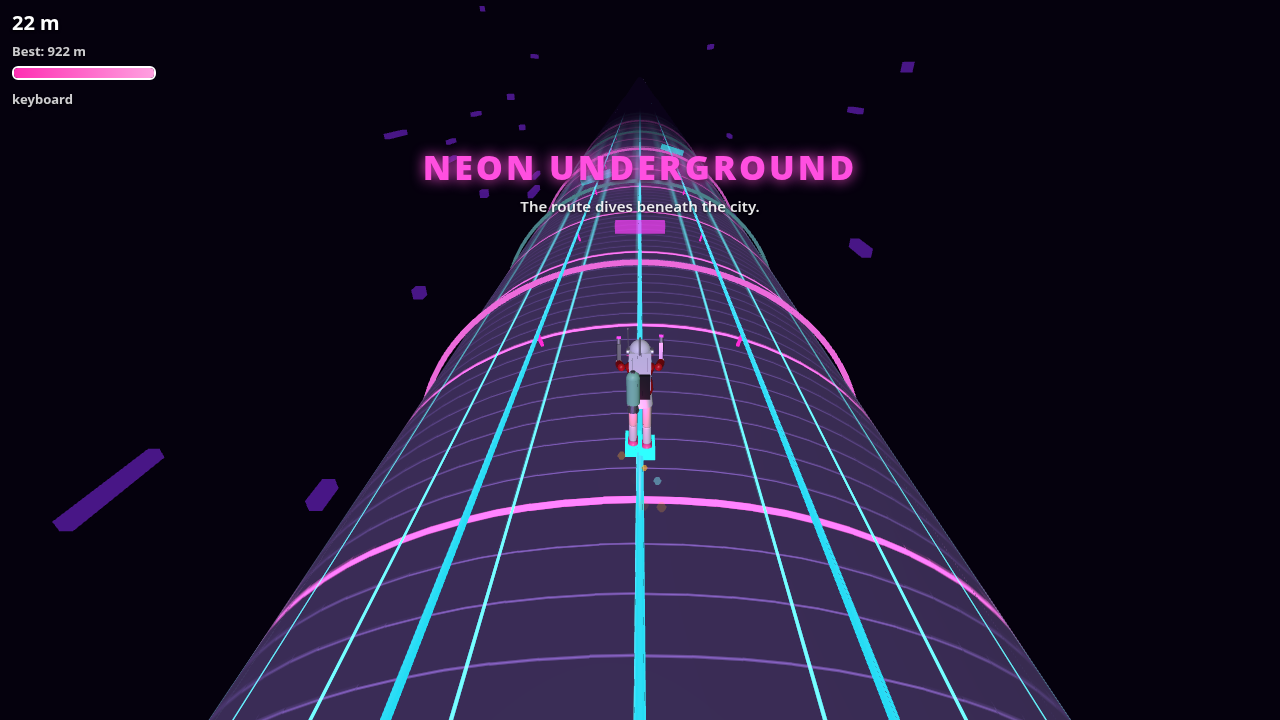
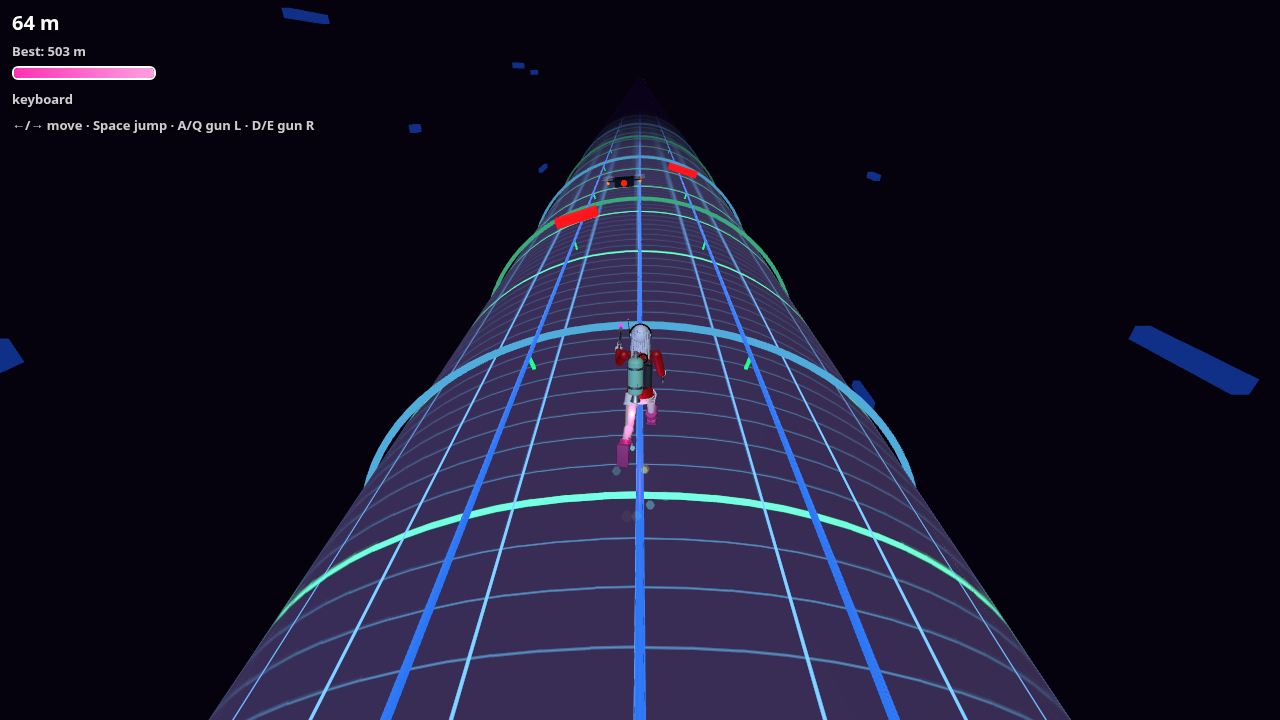
+20% speed, red-on-blue/green Neon Underground, split touch zones with twin guns, hostile drones

diff --git a/index.html b/index.html
@@ -14,19 +14,19 @@ canvas{display:block;touch-action:none}
 #over h1{margin:0 0 8px}#over button{font-size:22px;padding:12px 30px;border:0;border-radius:10px;background:#ff4f8b;color:#fff;margin-top:14px}
 #touch{position:fixed;inset:0;display:none;pointer-events:none;z-index:5}
 .zone{position:absolute;bottom:0;height:50%;width:35%;border:2px dashed rgba(255,255,255,.12);box-sizing:border-box;display:flex;align-items:flex-end;justify-content:center;padding-bottom:30px;color:rgba(255,255,255,.4);font-size:34px}
-#zl{left:0}#zr{right:0}
+#zl{left:0}#zr{right:0}.gz{top:0;bottom:auto;align-items:flex-start;padding-top:150px;color:rgba(255,80,220,.6);font-size:17px;font-weight:800;border-color:rgba(255,80,220,.25)}#zgl{left:0}#zgr{right:0}#tip{position:absolute;left:50%;top:38%;transform:translateX(-50%);color:rgba(255,255,255,.45);font:600 13px system-ui;text-align:center}
 #jb{position:absolute;left:50%;bottom:40px;transform:translateX(-50%);width:90px;height:90px;border-radius:50%;background:rgba(255,79,139,.45);color:#fff;display:flex;align-items:center;justify-content:center;font-weight:700}
 </style>
 <script type="importmap">{"imports":{"three":"https://cdn.jsdelivr.net/npm/three@0.160.0/build/three.module.js","three/addons/":"https://cdn.jsdelivr.net/npm/three@0.160.0/examples/jsm/"}}</script>
 </head><body>
-<div id="hud"><div id="score">0 m</div><small id="best">Best: 0 m</small><br><div id="fuelwrap"><div id="fuel"></div></div><small id="mode">keyboard</small></div>
-<div id="touch"><div class="zone" id="zl">◀</div><div class="zone" id="zr">▶</div><div id="jb">JUMP</div></div>
+<div id="hud"><div id="score">0 m</div><small id="best">Best: 0 m</small><br><div id="fuelwrap"><div id="fuel"></div></div><small id="mode">keyboard</small><br><small id="khint">←/→ move · Space jump · A/Q gun L · D/E gun R</small></div>
+<div id="touch"><div class="zone gz" id="zgl">🔫 L GUN</div><div class="zone gz" id="zgr">R GUN 🔫</div><div class="zone" id="zl">◀ MOVE</div><div class="zone" id="zr">MOVE ▶</div><div id="tip">center = jump<br>(hold = jetpack)</div><div id="jb">JUMP</div></div>
 <div id="flash" style="position:fixed;inset:0;background:#ffb070;opacity:0;pointer-events:none;z-index:8"></div><div id="warn" style="position:fixed;top:12px;right:12px;color:#ff5040;font-weight:800;text-shadow:0 0 6px #f00;display:none;z-index:6">☄ METEOR</div>
-<div id="banner" style="position:fixed;left:0;right:0;top:20%;text-align:center;color:#fff;pointer-events:none;z-index:7;opacity:0;transition:opacity .6s"><div id="bt" style="font:900 34px system-ui;letter-spacing:3px;text-shadow:0 0 14px currentColor,0 2px 4px #000"></div><div id="bs" style="font:600 15px system-ui;opacity:.9;margin-top:6px;text-shadow:0 1px 3px #000;color:#fff"></div></div><div id="inv" style="position:fixed;top:44%;left:0;right:0;text-align:center;font:900 30px system-ui;color:#39ff88;text-shadow:0 0 10px #0f8,0 2px 3px #000;display:none;pointer-events:none;z-index:7">⇄ INVERTED</div>
+<div id="banner" style="position:fixed;left:0;right:0;top:20%;text-align:center;color:#fff;pointer-events:none;z-index:7;opacity:0;transition:opacity .6s"><div id="bt" style="font:900 34px system-ui;letter-spacing:3px;text-shadow:0 0 14px currentColor,0 2px 4px #000"></div><div id="bs" style="font:600 15px system-ui;opacity:.9;margin-top:6px;text-shadow:0 1px 3px #000;color:#fff"></div></div><div id="inv" style="position:fixed;top:44%;left:0;right:0;text-align:center;font:900 30px system-ui;color:#39ff88;text-shadow:0 0 10px #0f8,0 2px 3px #000;display:none;pointer-events:none;z-index:7">⇄ INVERTED</div><div id="pop" style="position:fixed;top:30%;left:0;right:0;text-align:center;font:900 28px system-ui;color:#ff60e0;text-shadow:0 0 10px #f0c,0 2px 3px #000;opacity:0;pointer-events:none;z-index:7;transition:opacity .4s"></div>
 <div id="over"><h1>Game Over</h1><div id="final"></div><button id="restart">Restart</button><small style="margin-top:8px;opacity:.7">Space / tap to restart</small></div>
 <script type="module">
 import * as THREE from 'three';
-const R=14, BASE=18.72, RAMP=0.5, RAMP_T=10, CAP=200, TURN_RATE=18/R /* ~74deg/s, 18 m/s surface (was 16) */, HOP_H=1.6, THRUST=36, VY_MAX=7.5, FUEL_TIME=1.6, FUEL_REFILL=0.7, MAX_ALT=9, JUMP_H=HOP_H, G=18,
+const R=14, BASE=22.464, RAMP=0.5, RAMP_T=10, CAP=200, TURN_RATE=18/R /* ~74deg/s, 18 m/s surface (was 16) */, HOP_H=1.6, THRUST=36, VY_MAX=7.5, FUEL_TIME=1.6, FUEL_REFILL=0.7, MAX_ALT=9, JUMP_H=HOP_H, G=18,
   V0=Math.sqrt(2*G*JUMP_H), COYOTE=0.12, BUFFER=0.1, CAM_D=10.5, CAM_H=8.5, CAM_FOLLOW=4.5;
 const renderer=new THREE.WebGLRenderer({antialias:true});
 renderer.setPixelRatio(Math.min(devicePixelRatio,2));renderer.setSize(innerWidth,innerHeight);
@@ -111,27 +111,28 @@ const obsGeo=new THREE.BoxGeometry(3,0.9,0.6), obsMat=new THREE.MeshStandardMate
 const OBS_HALF={t:1.5,r:0.45,a:0.3};
 const meteors=[],craters=[],gaps=[];let pad=null;let st,camTheta0=true;const obstacles=[];
 const best=()=>+(localStorage.getItem('vicRouteBest')||0);
-function reset(){for(const o of obstacles)scene.remove(o.mesh);obstacles.length=0;if(typeof clearMeteors==='function')clearMeteors();if(typeof clearGaps==='function')clearGaps();
+function reset(){for(const o of obstacles)scene.remove(o.mesh);obstacles.length=0;if(typeof clearMeteors==='function')clearMeteors();if(typeof clearGaps==='function')clearGaps();if(window.__combatReady)clearDrones();
  st={theta:0,y:0,vy:0,grounded:true,lastGround:0,bufferT:-1,speed:BASE,t:0,dist:0,spawnIn:1.5,over:false,frames:0,impacts:0,meteorIn:0,killedBy:null,spawnLo:1.8,spawnHi:3.2,difficulty:0,gapIn:8,side:'out',prevS:R,zone:'tube',entered:0,exited:0,inDur:0,inT0:0,electricCrossed:0,gapsCrossed:0,boost:0,boosted:false,padAy:-50,padDone:false,te:0,spins:0,jumps:0,fuel:1,thrusting:false,jumpT:0,maxY:0,camTheta:0,lean:0,realm:'normal',realmT:0,portalIn:14,invertT:0,invertDur:0,invertStart:0,visits:{},returns:0,lastReturn:null,lastRealmDur:0,missAt:-1,exitSpawned:false,exitT:0,pL:false,pR:false,flat:false,lx:0,morph:0,morphDir:0,rails:false,rail:1,railBase:0,hopT:-1,hopArc:0,hopFrom:0,railSwitches:0,strobe:false,strobeT:0,strobeIn:25,strobeDark:false,strobeFlips:0,strobeHold:null,strobes:0};camTheta0=true;if(window.__rr){clearPortals();strobeVis(false);railsOff();setMorph(0);flatW.visible=false;applyTheme('normal');}
  document.getElementById('over').style.display='none';if(pad){pad.visible=true;placePad();}}
 reset();
-const keys={left:false,right:false,jump:false};const touchHold={left:false,right:false,jump:false};const tapPend={left:0,right:0};
+const keys={left:false,right:false,jump:false,gunL:false,gunR:false};const touchHold={left:false,right:false,jump:false,gunL:false,gunR:false};const tapPend={left:0,right:0,gunL:0,gunR:0};
 function requestJump(){if(st.over){reset();return;}st.bufferT=st.t;}
 addEventListener('keydown',e=>{setMode('keyboard');
  if(e.code==='ArrowLeft'){keys.left=true;e.preventDefault();}
  if(e.code==='ArrowRight'){keys.right=true;e.preventDefault();}
- if(e.code==='Space'){e.preventDefault();keys.jump=true;if(!e.repeat)requestJump();}});
-addEventListener('keyup',e=>{if(e.code==='ArrowLeft')keys.left=false;if(e.code==='ArrowRight')keys.right=false;if(e.code==='Space')keys.jump=false;});
+ if(e.code==='Space'){e.preventDefault();keys.jump=true;if(!e.repeat)requestJump();}
+ if(['KeyA','KeyQ','KeyZ'].includes(e.code)){keys.gunL=true;if(!e.repeat)tapPend.gunL=1;}if(['KeyD','KeyE','KeyX'].includes(e.code)){keys.gunR=true;if(!e.repeat)tapPend.gunR=1;}});
+addEventListener('keyup',e=>{if(e.code==='ArrowLeft')keys.left=false;if(e.code==='ArrowRight')keys.right=false;if(e.code==='Space')keys.jump=false;if(['KeyA','KeyQ','KeyZ'].includes(e.code))keys.gunL=false;if(['KeyD','KeyE','KeyX'].includes(e.code))keys.gunR=false;});
 let mode='keyboard';
 function setMode(m){if(m===mode)return;mode=m;document.getElementById('mode').textContent=m;
- document.getElementById('touch').style.display=m==='touch'?'block':'none';}
+ document.getElementById('touch').style.display=m==='touch'?'block':'none';document.getElementById('khint').style.display=m==='touch'?'none':'';}
 if(matchMedia('(pointer:coarse)').matches||'ontouchstart' in window&&navigator.maxTouchPoints>0)setMode('touch');
 const active=new Map();
-function zoneOf(x,y){if(y<innerHeight/2)return 'jump';const w=innerWidth;
+function zoneOf(x,y){const w=innerWidth;if(y<innerHeight/2){if(x<w*0.35)return 'gunL';if(x>w*0.65)return 'gunR';return 'jump';}
  const jb=document.getElementById('jb').getBoundingClientRect();
  if(x>=jb.left&&x<=jb.right&&y>=jb.top&&y<=jb.bottom)return 'jump';
  if(x<w*0.35)return 'left';if(x>w*0.65)return 'right';return 'jump';}
-function syncHold(){touchHold.left=[...active.values()].includes('left');touchHold.right=[...active.values()].includes('right');touchHold.jump=[...active.values()].includes('jump');}
+function syncHold(){touchHold.left=[...active.values()].includes('left');touchHold.right=[...active.values()].includes('right');touchHold.jump=[...active.values()].includes('jump');touchHold.gunL=[...active.values()].includes('gunL');touchHold.gunR=[...active.values()].includes('gunR');}
 const cvs=renderer.domElement;
 function onTS(e){if(e.target.id==='restart')return;e.preventDefault();setMode('touch');
  for(const t of e.changedTouches){const z=zoneOf(t.clientX,t.clientY);active.set(t.identifier,z);if(z==='jump'||st.over)requestJump();else tapPend[z]=1;}syncHold();}
@@ -142,7 +143,7 @@ document.addEventListener('touchmove',e=>e.preventDefault(),{passive:false});
 document.addEventListener('gesturestart',e=>e.preventDefault());
 document.getElementById('restart').addEventListener('click',()=>reset());
 addEventListener('resize',()=>{camera.aspect=innerWidth/innerHeight;camera.updateProjectionMatrix();renderer.setSize(innerWidth,innerHeight);});
-function spawn(th,ay){const car=st.realm==='freeway';const m=car?makeCar():st.realm==='neon'?new THREE.Mesh(obsGeo,holoMats[Math.random()*2|0]):new THREE.Mesh(obsGeo,obsMat);const o={mesh:m,kind:car?'car':'barrier',theta:th??Math.random()*Math.PI*2,ay:ay??SPAWN_AY(),h:st.rails?RAIL_H:0};if(!car)m.add(new THREE.LineSegments(obsEdges,outlineMat));if(st.flat){o.v=8+Math.random()*6;if(ay==null)o.ay=SPAWN_AY()*(1+o.v/st.speed);o.lx=th==null?LANES[Math.random()*4|0]:Math.max(-FLAT_X,Math.min(FLAT_X,th*R));o.theta=0;}
+function spawn(th,ay){const car=st.realm==='freeway';const m=car?makeCar():st.realm==='neon'?new THREE.Mesh(obsGeo,redObsMat):new THREE.Mesh(obsGeo,obsMat);const o={mesh:m,kind:car?'car':'barrier',theta:th??Math.random()*Math.PI*2,ay:ay??SPAWN_AY(),h:st.rails?RAIL_H:0};if(!car)m.add(new THREE.LineSegments(obsEdges,outlineMat));if(st.flat){o.v=8+Math.random()*6;if(ay==null)o.ay=SPAWN_AY()*(1+o.v/st.speed);o.lx=th==null?LANES[Math.random()*4|0]:Math.max(-FLAT_X,Math.min(FLAT_X,th*R));o.theta=0;}
  scene.add(m);obstacles.push(o);placeObs(o);return st.flat?o.lx/R:o.theta;}
 function placeObs(o){if(o.lx!==undefined){o.mesh.position.set(o.lx,o.ay,R);o.mesh.rotation.set(0,0,Math.PI);return;}const r=(o.kind==='car'?R:R+OBS_HALF.r)+(o.h||0);o.mesh.position.set(Math.sin(o.theta)*r,o.ay,Math.cos(o.theta)*r);o.mesh.rotation.set(0,o.theta,0);}
 function angDiff(a,b){let d=a-b;d=Math.atan2(Math.sin(d),Math.cos(d));return d;}
@@ -151,7 +152,7 @@ function collide(o){if(o.kind==='car'){return (o.lx!==undefined?Math.abs(o.lx-st
  const arc=Math.abs(angDiff(o.theta,st.theta))*R; const ax=Math.abs(o.ay-0);
  return arc<VIC_HALF.x+OBS_HALF.t && ax<VIC_HALF.z+OBS_HALF.a && st.y<OBS_HALF.r*2;}
 function gameOver(by){st.over=true;st.killedBy=by||'barrier';const m=Math.floor(st.dist);if(m>best())localStorage.setItem('vicRouteBest',m);
- document.getElementById('final').textContent=`${st.killedBy==='barrier'?'':st.killedBy==='gap'?'Fell into the gap! ':st.killedBy==='electric'?'Electrocuted! ':st.killedBy==='car'?'Hit by a car! ':'Knocked out by a '+st.killedBy+'! '}${m} m — Best ${best()} m`;document.getElementById('over').style.display='flex';}
+ document.getElementById('final').textContent=`${st.killedBy==='barrier'?'':st.killedBy==='gap'?'Fell into the gap! ':st.killedBy==='electric'?'Electrocuted! ':st.killedBy==='car'?'Hit by a car! ':st.killedBy==='drone'?'Taken out by a drone! ':'Knocked out by a '+st.killedBy+'! '}${m} m — Best ${best()} m`;document.getElementById('over').style.display='flex';}
 
 // ---------- Boost pad ----------
 const surf=(th,h,ay,v=new THREE.Vector3())=>v.set(Math.sin(th)*(R+h),ay,Math.cos(th)*(R+h));
@@ -271,7 +272,7 @@ function clearMeteors(){for(const m of meteors){scene.remove(m.ring);scene.remov
 // ---------- Portals & realms (story chapters) ----------
 const mkTex=f=>{const c=document.createElement('canvas');c.width=c.height=256;const x=c.getContext('2d');f(x);const t=new THREE.CanvasTexture(c);t.wrapS=t.wrapT=THREE.RepeatWrapping;t.repeat.set(14,300);return t;};
 const sunTex=mkTex(x=>{x.fillStyle='#d9a441';x.fillRect(0,0,256,256);x.fillStyle='#f7d27a';x.fillRect(0,0,256,26);x.fillStyle='#ffe7a8';for(let i=0;i<4;i++)x.fillRect(i*64,0,3,256);});
-const neonTex=mkTex(x=>{x.fillStyle='#07040f';x.fillRect(0,0,256,256);x.fillStyle='#ff2bd6';x.fillRect(0,0,256,6);x.fillStyle='#22e6ff';x.fillRect(0,0,4,256);x.fillRect(128,0,3,256);x.fillStyle='rgba(120,60,255,.35)';for(let i=1;i<8;i++)x.fillRect(0,i*32,256,1);});
+const neonTex=mkTex(x=>{x.fillStyle='#07040f';x.fillRect(0,0,256,256);x.fillStyle='#22ff88';x.fillRect(0,0,256,6);x.fillStyle='#2a7bff';x.fillRect(0,0,4,256);x.fillRect(128,0,3,256);x.fillStyle='rgba(40,140,255,.35)';for(let i=1;i<8;i++)x.fillRect(0,i*32,256,1);});
 const fwTex=mkTex(x=>{x.fillStyle='#2b2b30';x.fillRect(0,0,256,256);for(let i=0;i<900;i++){x.fillStyle=`rgba(255,255,255,${Math.random()*.08})`;x.fillRect(Math.random()*256,Math.random()*256,2,2);}x.fillStyle='#f2f2f2';x.fillRect(0,0,6,256);x.fillStyle='#ffd23a';x.fillRect(126,0,5,120);});
 const fwBg=(()=>{const c=document.createElement('canvas');c.width=2;c.height=256;const x=c.getContext('2d');const g=x.createLinearGradient(0,0,0,256);g.addColorStop(0,'#2a1050');g.addColorStop(.45,'#c2386e');g.addColorStop(.75,'#ff8a4a');g.addColorStop(1,'#ffd27a');x.fillStyle=g;x.fillRect(0,0,2,256);return new THREE.CanvasTexture(c);})();
 const hemi=scene.children.find(o=>o.isHemisphereLight),dimSunM=scene.children.find(o=>o.isMesh&&o.geometry.type==='SphereGeometry');
@@ -282,21 +283,21 @@ const drift=[];{const w=new THREE.Mesh(new THREE.CylinderGeometry(R+0.06,R+0.06,
  for(let i=0;i<46;i++){const c=new THREE.Group();for(let j=0;j<4;j++){const b=new THREE.Mesh(sg,cm);b.scale.setScalar(4+Math.random()*5);b.position.set(j*5-7,Math.random()*3,Math.random()*3);c.add(b);}
   const a=Math.random()*Math.PI*2,r=55+Math.random()*150;c.position.set(Math.sin(a)*r,-Math.random()*520+20,Math.cos(a)*r);c.lookAt(0,c.position.y,0);g.add(c);drift.push({o:c,k:0.25,g:'sunlit'});}}
 const neonRings=[];
-{const g=deco.neon;const ms=[new THREE.MeshBasicMaterial({color:0xff2bd6}),new THREE.MeshBasicMaterial({color:0x22e6ff})],tg=new THREE.TorusGeometry(R+0.3,0.16,8,96);
+{const g=deco.neon;const ms=[new THREE.MeshBasicMaterial({color:0x22ff88}),new THREE.MeshBasicMaterial({color:0x2a7bff})],tg=new THREE.TorusGeometry(R+0.3,0.16,8,96);
  for(let i=0;i<16;i++){const r=new THREE.Mesh(tg,ms[i%2]);r.rotation.x=Math.PI/2;r.position.y=-i*24;g.add(r);neonRings.push(r);}g.userData.ms=ms;
- const bm=new THREE.MeshBasicMaterial({color:0x8a2bff,transparent:true,opacity:.5,fog:false});for(let i=0;i<40;i++){const b=new THREE.Mesh(new THREE.BoxGeometry(3,2+Math.random()*30,3),bm);const a=Math.random()*Math.PI*2,r=70+Math.random()*90;b.position.set(Math.sin(a)*r,-Math.random()*500,Math.cos(a)*r);g.add(b);drift.push({o:b,k:0.5,g:'neon'});}}
+ const bm=new THREE.MeshBasicMaterial({color:0x1a5cff,transparent:true,opacity:.5,fog:false});for(let i=0;i<40;i++){const b=new THREE.Mesh(new THREE.BoxGeometry(3,2+Math.random()*30,3),bm);const a=Math.random()*Math.PI*2,r=70+Math.random()*90;b.position.set(Math.sin(a)*r,-Math.random()*500,Math.cos(a)*r);g.add(b);drift.push({o:b,k:0.5,g:'neon'});}}
 {const g=deco.freeway;const sd=new THREE.Mesh(new THREE.SphereGeometry(42,24,16),new THREE.MeshBasicMaterial({color:0xff6a3d,fog:false}));sd.position.set(-70,-420,-210);g.add(sd);
  const tm=new THREE.MeshBasicMaterial({color:0x2a1424,fog:false}),lm=new THREE.MeshBasicMaterial({color:0x1d2a1a,fog:false}),tgeo=new THREE.CylinderGeometry(0.5,0.8,16,6),lgeo=new THREE.BoxGeometry(1.4,0.3,7);
  for(let i=0;i<0;i++){const p=new THREE.Group();const t=new THREE.Mesh(tgeo,tm);t.position.y=8;p.add(t);for(let j=0;j<6;j++){const l=new THREE.Mesh(lgeo,lm);l.position.y=16;l.rotation.y=j*Math.PI/3;l.rotateX(0.45);l.translateZ(3);p.add(l);}
   const a=Math.random()*Math.PI*2,r=40+Math.random()*70,n=new THREE.Vector3(Math.sin(a),0,Math.cos(a));p.position.set(n.x*r,-Math.random()*500,n.z*r);p.quaternion.setFromUnitVectors(new THREE.Vector3(0,1,0),n);g.add(p);drift.push({o:p,k:0.6,g:'freeway'});}}
 const THEMES={normal:{map:tex,bg:new THREE.Color(0x120c14),fog:0x120c14,em:0,hemi:1.1,sun:0xffffff},
  sunlit:{map:sunTex,bg:new THREE.Color(0x8fd3ff),fog:0xbfe6ff,em:0x3a2400,hemi:1.7,sun:0xffe2a0},
- neon:{map:neonTex,bg:new THREE.Color(0x05010d),fog:0x0a0218,em:0xffffff,emMap:neonTex,hemi:0.45,sun:0xb070ff},
+ neon:{map:neonTex,bg:new THREE.Color(0x05010d),fog:0x0a0218,em:0xffffff,emMap:neonTex,hemi:0.45,sun:0x40a0ff},
  glitch:{map:tex,bg:new THREE.Color(0x001a08),fog:0x001a08,em:0x00ff66,hemi:1.1,sun:0xffffff,wire:true},
  freeway:{map:fwTex,bg:fwBg,fog:0xd8607a,em:0,hemi:1.25,sun:0xffb080}};
 function applyTheme(n){const T=THEMES[n];const off=tubeMat.map.offset.y;tubeMat.map=T.map;T.map.offset.y=off;tubeMat.emissive.set(T.em);tubeMat.emissiveMap=T.emMap||null;tubeMat.wireframe=!!T.wire;tubeMat.needsUpdate=true;
  scene.background=T.bg;scene.fog.color.set(T.fog);hemi.intensity=T.hemi;sun.color.set(T.sun);dimSunM.visible=n==='normal';for(const k in deco)deco[k].visible=k===n;renderer.domElement.style.filter='';}
-const holoMats=[0x22e6ff,0xff2bd6].map(c=>new THREE.MeshStandardMaterial({color:c,emissive:c,emissiveIntensity:1.4,transparent:true,opacity:.6,depthWrite:false}));
+const redObsMat=new THREE.MeshStandardMaterial({color:0xff1010,emissive:0xff0000,emissiveIntensity:2});const holoMats=[0x22e6ff,0xff2bd6].map(c=>new THREE.MeshStandardMaterial({color:c,emissive:c,emissiveIntensity:1.4,transparent:true,opacity:.6,depthWrite:false}));
 const CAR={w:2.2,l:4.2,h:1.45};const carGeo={body:new THREE.BoxGeometry(CAR.w,CAR.l,0.85),cab:new THREE.BoxGeometry(1.8,2,0.6),wh:new THREE.CylinderGeometry(0.4,0.4,0.3,10),lt:new THREE.BoxGeometry(0.5,0.1,0.25)};
 const carCols=[0xe23b3b,0x2f7de1,0xf2f2f2,0xf5c32c,0x29b36b,0x222222].map(c=>M(c,{roughness:.3,metalness:.4})),glassM=M(0x223344,{roughness:.1}),tireM=M(0x111111),tailM=new THREE.MeshBasicMaterial({color:0xff2020}),headM=new THREE.MeshBasicMaterial({color:0xfff6c0}),beamM=new THREE.MeshBasicMaterial({color:0xfff2b0,transparent:true,opacity:.22,blending:THREE.AdditiveBlending,depthWrite:false,fog:false}),beamG=new THREE.ConeGeometry(0.9,5,12,1,true);
 function makeCar(){const g=new THREE.Group();const b=new THREE.Mesh(carGeo.body,carCols[Math.random()*carCols.length|0]);b.position.z=0.75;g.add(b);const c=new THREE.Mesh(carGeo.cab,glassM);c.position.set(0,0.2,1.45);g.add(c);
@@ -326,7 +327,7 @@ function previewMat(k,ring){return new THREE.ShaderMaterial({uniforms:{uT:{value
   float al=uR>0.5?.9:smoothstep(1.,.93,r);gl_FragColor=vec4(c,al);}`});}
 
 const ZONES={sunlit:{name:'SUNLIT PAST',sub:'Vic remembers where the route began…',col:0xffd25a,css:'#ffd25a',dur:Infinity},
- neon:{name:'NEON UNDERGROUND',sub:'The route dives beneath the city.',col:0xff2bd6,css:'#ff4fe0',dur:12},
+ neon:{name:'NEON UNDERGROUND',sub:'The route dives beneath the city. RED = deadly.',col:0x22ff88,css:'#3dff9a',dur:12},
  glitch:{name:'GLITCH ZONE',sub:'Something is rewriting the route…',col:0x39ff88,css:'#39ff88',dur:5},
  freeway:{name:'CALIFORNIA FREEWAY',sub:'Sunset traffic. Don\'t get hit.',col:0xff7a3d,css:'#ff9a5c',dur:12}};
 function labelSprite(text,css){const c=document.createElement('canvas');c.width=1024;c.height=128;const x=c.getContext('2d');x.font='900 72px system-ui';x.textAlign='center';x.textBaseline='middle';x.lineWidth=10;x.strokeStyle='#000';x.strokeText(text,512,64);x.fillStyle=css;x.fillText(text,512,64);
@@ -353,16 +354,16 @@ function placePortal(p){if(p.exit&&p.flat){p.grp.position.set(0,p.ay,R);p.lab.po
 function clearPortals(){for(const p of portals){scene.remove(p.grp);if(p.lab&&p.exit)scene.remove(p.lab);}portals.length=0;}
 function banner(t,sub,css){const b=document.getElementById('banner');document.getElementById('bt').textContent=t;document.getElementById('bt').style.color=css;document.getElementById('bs').textContent=sub;b.style.opacity=1;clearTimeout(banner.h);banner.h=setTimeout(()=>b.style.opacity=0,2400);st.bannerText=t;}
 function clearHaz(){for(const o of obstacles)scene.remove(o.mesh);obstacles.length=0;clearMeteors();clearGaps();clearPortals();}
-function enterRealm(z){const Z=ZONES[z];clearHaz();st.realm=z;st.realmT=0;st.missAt=-1;st.exitSpawned=false;st.visits[z]=(st.visits[z]||0)+1;applyTheme(z);flash(Z.css);banner(Z.name,Z.sub,Z.css);
+function enterRealm(z){clearDrones();const Z=ZONES[z];clearHaz();st.realm=z;st.realmT=0;st.missAt=-1;st.exitSpawned=false;st.visits[z]=(st.visits[z]||0)+1;applyTheme(z);flash(Z.css);banner(Z.name,Z.sub,Z.css);
  st.spawnIn=z==='sunlit'?99:1.6;st.meteorIn=Math.max(st.meteorIn,3);if(z==='glitch'){st.invertT=3;st.invertStart=st.t;}if(z==='freeway'){st.flat=true;st.lx=0;st.theta=0;st.camTheta=0;st.morphDir=1;flatW.visible=true;}if(z==='neon'){st.rails=true;st.rail=1;st.railBase=st.theta;st.hopT=-1;railsG.rotation.y=st.theta;for(const b of boots)b.visible=true;}}
-function exitRealm(how){if(st.flat){for(let i=obstacles.length-1;i>=0;i--)if(obstacles[i].lx!==undefined){scene.remove(obstacles[i].mesh);obstacles.splice(i,1);}st.theta=st.lx/R;st.camTheta=st.theta;st.flat=false;st.lx=0;st.morphDir=-1;}railsOff();st.lastReturn=how;st.returns++;st.lastRealmDur=st.realmT;st.lastRealm=st.realm;clearHaz();st.realm='normal';st.realmT=0;st.invertT=0;applyTheme('normal');flash('#c8d8ff');banner('THE ROUTE','Back in the void. The story continues…','#bcd0ff');
+function exitRealm(how){clearDrones();if(st.flat){for(let i=obstacles.length-1;i>=0;i--)if(obstacles[i].lx!==undefined){scene.remove(obstacles[i].mesh);obstacles.splice(i,1);}st.theta=st.lx/R;st.camTheta=st.theta;st.flat=false;st.lx=0;st.morphDir=-1;}railsOff();st.lastReturn=how;st.returns++;st.lastRealmDur=st.realmT;st.lastRealm=st.realm;clearHaz();st.realm='normal';st.realmT=0;st.invertT=0;applyTheme('normal');flash('#c8d8ff');banner('THE ROUTE','Back in the void. The story continues…','#bcd0ff');
  st.spawnIn=1.5;st.portalIn=18+Math.random()*10;st.gapIn=Math.max(st.gapIn,6);st.meteorIn=Math.max(st.meteorIn,3);}
 let glitchF=0;
 function updateRealm(dt,move){updateExtras(dt,move);if(st.over)return;
  if(st.invertT>0){st.invertT-=dt;if(st.invertT<=0){st.invertT=0;st.invertDur=st.t-st.invertStart;}}
  const iv=document.getElementById('inv'),ivs=st.invertT>0?'block':'none';if(iv.style.display!==ivs)iv.style.display=ivs;
  for(const d of drift)if(deco[d.g]&&deco[d.g].visible){d.o.position.y+=move*d.k;if(d.o.position.y>40)d.o.position.y-=560;}
- if(st.realm==='neon'){const pu=0.55+0.45*Math.sin(st.t*7);deco.neon.userData.ms[0].color.setRGB(pu,0.17*pu,0.84*pu);deco.neon.userData.ms[1].color.setRGB(0.13*(1-pu)+.05,0.9*(1.1-pu),1.1-pu);for(const r of neonRings){r.position.y+=move;if(r.position.y>25)r.position.y-=16*24;}for(const m of holoMats)m.opacity=0.45+0.3*Math.random();}
+ if(st.realm==='neon'){const pu=0.55+0.45*Math.sin(st.t*7);deco.neon.userData.ms[0].color.setRGB(0.1*pu,pu,0.5*pu);deco.neon.userData.ms[1].color.setRGB(0.08,0.45*(1.1-pu)+0.1,1.1-pu);for(const r of neonRings){r.position.y+=move;if(r.position.y>25)r.position.y-=16*24;}redObsMat.emissiveIntensity=1.6+0.8*Math.random();}
  if(st.realm==='glitch'){glitchF-=dt;if(glitchF<=0){glitchF=0.06+Math.random()*0.1;renderer.domElement.style.filter=Math.random()<0.55?`invert(1) hue-rotate(${Math.random()*360|0}deg)`:'none';tubeMat.wireframe=Math.random()<0.25;}}
  if(st.realm==='normal'){if(st.padDone)st.portalIn-=dt;if(st.portalIn<=0&&!st.strobe&&!portals.length&&!gaps.length&&!meteors.length&&!craters.length&&st.t>8){spawnPortal();st.portalIn=999;}}
  else{st.realmT+=dt;const ex=st.realm==='sunlit'?4:ZONES[st.realm].dur-1.6;
@@ -392,8 +393,8 @@ const tubeBaseZ=tube.position.z;
 function setMorph(m){st.morph=m;const k=1+40*m*m;tube.scale.set(k,1,k);tube.position.z=tubeBaseZ+R-R*k;tube.visible=m<0.999;}
 // neon rails + boots
 const railsG=new THREE.Group();deco.neon.add(railsG);
-{const rm=new THREE.MeshStandardMaterial({color:0xc8d4e8,metalness:1,roughness:.2,emissive:0x22e6ff,emissiveIntensity:.9}),rg=new THREE.CylinderGeometry(0.09,0.09,900,8);
- const pm=new THREE.MeshBasicMaterial({color:0xff2bd6}),pg=new THREE.BoxGeometry(0.12,0.12,RAIL_H);
+{const rm=new THREE.MeshStandardMaterial({color:0xc8d4e8,metalness:1,roughness:.2,emissive:0x2a7bff,emissiveIntensity:.9}),rg=new THREE.CylinderGeometry(0.09,0.09,900,8);
+ const pm=new THREE.MeshBasicMaterial({color:0x22ff88}),pg=new THREE.BoxGeometry(0.12,0.12,RAIL_H);
  for(let i=0;i<3;i++){const th=(1-i)*RA;const r=new THREE.Mesh(rg,rm);surf(th,RAIL_H,-420,r.position);railsG.add(r);
   for(let k=0;k<60;k++){const p=new THREE.Mesh(pg,pm);surf(th,RAIL_H/2,-k*15+20,p.position);p.rotation.y=th;railsG.add(p);drift.push({o:p,k:1,g:'rails'});}}}
 const bootMat=new THREE.MeshStandardMaterial({color:0x1a2a3a,emissive:0x22e6ff,emissiveIntensity:1.6,metalness:.6,roughness:.3}),boots=[];
@@ -455,7 +456,51 @@ const vicModel={loaded:false,failed:false,clip:'idle',mixer:null,acts:{},err:nul
 }catch(e){vicModel.failed=true;vicModel.err=String(e);console.warn('Vic model failed, using primitive Vic:',e);}})();
 function vicAnim(dt){if(!vicModel.loaded)return;const w=st.over?'hit':!st.grounded&&st.hopT<0||st.hopArc>0?(st.thrusting?'jetpack_hover':'jump'):st.speed>0?'run':'idle';
  if(w!==vicModel.clip&&vicModel.acts[w]){const prev=vicModel.acts[vicModel.clip],nx=vicModel.acts[w];nx.reset().play();if(prev)nx.crossFadeFrom(prev,w==='hit'?0.08:0.18,false);vicModel.clip=w;}
- if(vicModel.acts.run)vicModel.acts.run.timeScale=Math.min(2.2,0.8+st.speed/60);vicModel.mixer.update(dt);}
+ if(vicModel.acts.run)vicModel.acts.run.timeScale=Math.min(2.2,0.8+st.speed/60);vicModel.mixer.update(dt);for(const [k,n] of [['recL','forearm.L'],['recR','forearm.R']]){const b=vicModel.model.getObjectByName(n);if(b&&combat[k]>0)b.rotateX(-combat[k]*4);}}
+
+// ---------- Guns + drones ----------
+const drones=[],bullets=[],combat={droneIn:12,cdL:0,cdR:0,recL:0,recR:0,kills:0,shots:0,shotsL:0,shotsR:0,bonus:0};
+const BV=75,FIRE_CD=0.16,DRONE_H=1.4,_v=new THREE.Vector3();
+const bulletGeo=new THREE.SphereGeometry(0.16,8,6),bulletMat=new THREE.MeshBasicMaterial({color:0xff30e0,fog:false});
+const trailGeo=new THREE.CylinderGeometry(0.06,0.02,1.6,6);trailGeo.translate(0,0.8,0);const btrailMat=new THREE.MeshBasicMaterial({color:0xff80f0,transparent:true,opacity:.6,blending:THREE.AdditiveBlending,depthWrite:false,fog:false});
+const flashMat=new THREE.MeshBasicMaterial({color:0xffb0ff,transparent:true,opacity:.95,blending:THREE.AdditiveBlending,depthWrite:false,fog:false});
+const flashes=[0,1].map(()=>{const m=new THREE.Mesh(new THREE.SphereGeometry(0.35,10,8),flashMat);m.visible=false;scene.add(m);return {m,t:0};});
+const droneBody=new THREE.MeshStandardMaterial({color:0x23262e,metalness:.7,roughness:.35}),droneRed=new THREE.MeshBasicMaterial({color:0xff2010}),droneOr=new THREE.MeshBasicMaterial({color:0xff9a20}),rotorMat=new THREE.MeshBasicMaterial({color:0x8899aa,transparent:true,opacity:.45});
+function makeDrone(){const g=new THREE.Group();g.scale.setScalar(1.25);const b=new THREE.Mesh(new THREE.BoxGeometry(1.1,0.9,0.45),droneBody);g.add(b); // local: x lateral, y along tube, z radial(up)
+ const eye=new THREE.Mesh(new THREE.SphereGeometry(0.2,12,8),droneRed);eye.position.set(0,0.45,0);g.add(eye);
+ for(const sx of[-1,1])for(const sy of[-1,1]){const arm=new THREE.Mesh(new THREE.BoxGeometry(0.55,0.08,0.08),droneBody);arm.position.set(sx*0.7,sy*0.35,0.15);g.add(arm);
+  const r=new THREE.Mesh(new THREE.CylinderGeometry(0.33,0.33,0.03,14),rotorMat);r.rotation.x=Math.PI/2;r.position.set(sx*0.95,sy*0.4,0.25);g.add(r);
+  const l=new THREE.Mesh(new THREE.SphereGeometry(0.09,8,6),sy<0?droneRed:droneOr);l.position.set(sx*0.95,sy*0.4,0.05);g.add(l);g.userData.rot=(g.userData.rot||[]).concat(r);}
+ return g;}
+const lat=()=>st.flat?st.lx:st.theta*R;
+function latDiff(o){return st.flat?o.x-st.lx:angDiff(o.x/R,st.theta)*R;}
+function trackPos(x,h,ay,v){if(st.flat)return v.set(x,ay,R+h);return surf(x/R,h,ay,v);}
+function spawnDrone(dx,ay){if(dx==null)dx=(Math.random()<.5?-1:1)*(1.2+Math.random()*1.4);const m=makeDrone();
+ const d={m,x:lat()+dx,ay:ay??SPAWN_AY()*0.8,h:DRONE_H+(st.rails?RAIL_H:0),ph:Math.random()*6};scene.add(m);drones.push(d);placeDrone(d);return d;}
+function placeDrone(d){trackPos(d.x,d.h+Math.sin(d.ph)*0.15,d.ay,d.m.position);d.m.rotation.set(0,st.flat?0:d.x/R,0);}
+function clearDrones(){for(const d of drones)scene.remove(d.m);drones.length=0;for(const b of bullets)scene.remove(b.m);bullets.length=0;}
+function muzzle(side,v){const n=vicModel.loaded&&vicModel.model.getObjectByName(side==='L'?'SMG_L':'SMG_R');(n||(side==='L'?armL:armR)).getWorldPosition(v);v.y-=0.35;return v;}
+function fire(side){if(st.over||st.side!=='out')return false;const k='cd'+side;if(combat[k]>0)return false;combat[k]=FIRE_CD;combat['rec'+side]=0.09;combat.shots++;combat['shots'+side]++;
+ const w=muzzle(side,new THREE.Vector3());let x,h;if(st.flat){x=w.x;h=w.z-R;}else{const th=Math.atan2(w.x,w.z);x=st.theta*R+angDiff(th,st.theta)*R;h=Math.hypot(w.x,w.z)-R;}
+ const m=new THREE.Mesh(bulletGeo,bulletMat);const t=new THREE.Mesh(trailGeo,btrailMat);m.add(t);scene.add(m);
+ /* +x lateral = screen-left: left gun aims slightly left */
+ bullets.push({m,x,h,ay:w.y,vx:side==='L'?1.8:-1.8,life:1.7});const f=flashes[side==='L'?0:1];f.t=0.06;f.m.position.copy(w);f.m.visible=true;return true;}
+function popup(t){const p=document.getElementById('pop');p.textContent=t;p.style.transition='none';p.style.opacity=1;requestAnimationFrame(()=>{p.style.transition='opacity .9s';p.style.opacity=0;});}
+function explode(v){for(let n=0;n<22;n++){const p=parts[pIdx++%PN];p.m.position.copy(v);p.life=0.4;p.m.visible=true;p.m.material.color.set([0xff3010,0xff9a20,0xffe070,0xff40e0][n%4]);p.v.set((Math.random()-.5)*14,(Math.random()-.5)*14,(Math.random()-.5)*14);}}
+window.__combatReady=true;
+function updateCombat(dt,move){
+ for(const s of['L','R']){combat['cd'+s]-=dt;combat['rec'+s]=Math.max(0,combat['rec'+s]-dt);const want=keys['gun'+s]||touchHold['gun'+s]||tapPend['gun'+s];if(want)fire(s);tapPend['gun'+s]=0;}
+ for(const f of flashes){f.t-=dt;f.m.visible=f.t>0;f.m.scale.setScalar(0.6+Math.random()*0.8);}
+ if(st.side!=='out'){if(drones.length)clearDrones();}
+ else if(st.realm!=='sunlit'&&!st.strobe){combat.droneIn-=dt;if(combat.droneIn<=0){spawnDrone();if(st.difficulty>0.6&&Math.random()<0.3)spawnDrone();combat.droneIn=(9-5.5*st.difficulty)*(0.7+Math.random()*0.6);}}
+ for(let i=drones.length-1;i>=0;i--){const d=drones[i];d.ay+=move+4*dt;d.ph+=dt*3;const dx=latDiff(d);if(d.ay<-12)d.x-=Math.sign(dx)*Math.min(Math.abs(dx),0.5*dt);
+  placeDrone(d);for(const r of d.m.userData.rot)r.rotation.y+=dt*40;
+  if(d.ay>20){scene.remove(d.m);drones.splice(i,1);continue;}
+  const vb=st.y+(st.rails?RAIL_H+st.hopArc:0);if(Math.abs(dx)<1.05&&Math.abs(d.ay)<0.9&&vb<d.h+0.4&&vb+2.2>d.h-0.4){explode(d.m.position);gameOver('drone');return;}}
+ for(let i=bullets.length-1;i>=0;i--){const b=bullets[i];const a0=b.ay;b.ay+=move-(st.speed+BV)*dt;b.x+=b.vx*dt;b.life-=dt;trackPos(b.x,b.h,b.ay,b.m.position);b.m.rotation.set(0,st.flat?0:b.x/R,0);
+  let hit=false;for(let j=drones.length-1;j>=0;j--){const d=drones[j];const dx=st.flat?d.x-b.x:angDiff(d.x/R,b.x/R)*R;
+   if(Math.abs(dx)<1.3&&Math.abs(d.h-b.h)<1.4&&d.ay<a0+1.2&&d.ay>b.ay-1.2){explode(d.m.position);flash&&0;scene.remove(d.m);drones.splice(j,1);combat.kills++;combat.bonus+=50;st.dist+=50;popup('DRONE DOWN +50');hit=true;break;}}
+  if(hit||b.life<=0||b.ay<-160){scene.remove(b.m);bullets.splice(i,1);}}}
 
 const clock=new THREE.Clock();let lastFrameDt=0.016;const camPos=new THREE.Vector3(0,CAM_D,R+CAM_H);const look=new THREE.Vector3();
 let simT=0;function step(dt){st.frames++;simT+=dt;
@@ -465,7 +510,7 @@ let simT=0;function step(dt){st.frames++;simT+=dt;
   const dir=((L?1:0)-(Rt?1:0))*inv;/* +theta = screen-left */
   if(st.rails)railInput(((eL?1:0)-(eR?1:0))*inv,dt);else if(st.flat){if(dir){st.lx=Math.max(-FLAT_X,Math.min(FLAT_X,st.lx+dir*TURN_RATE*R*dt));st.spins++;}}else if(dir){st.theta+=dir*TURN_RATE*dt;st.spins++;}st.lean+=(dir-st.lean)*(1-Math.exp(-10*dt));
   updatePad(dt);const te=st.t+st.boost;st.te=te;
-  st.speed=Math.min(CAP,BASE+0.1872*te+0.000624*te*te);st.difficulty=Math.min(1,te/150);st.spawnLo=(1.8-1.1*st.difficulty)/1.3;st.spawnHi=(3.2-2.0*st.difficulty)/1.3;if(st.boostFx>0){st.boostFx-=dt;st.speed=Math.min(CAP,st.speed*(1+0.4*Math.max(0,st.boostFx)/BOOST_FX));}if(st.realm==='neon'){st.spawnLo*=0.85;st.spawnHi*=0.85;st.speed=Math.min(CAP,st.speed*RAIL_BOOST);}if(st.strobe){st.spawnLo*=1.3;st.spawnHi*=1.3;}
+  st.speed=Math.min(CAP,BASE+0.22464*te+0.0007488*te*te);st.difficulty=Math.min(1,te/150);st.spawnLo=(1.8-1.1*st.difficulty)/1.3;st.spawnHi=(3.2-2.0*st.difficulty)/1.3;if(st.boostFx>0){st.boostFx-=dt;st.speed=Math.min(CAP,st.speed*(1+0.4*Math.max(0,st.boostFx)/BOOST_FX));}if(st.realm==='neon'){st.spawnLo*=0.85;st.spawnHi*=0.85;st.speed=Math.min(CAP,st.speed*RAIL_BOOST);}if(st.strobe){st.spawnLo*=1.3;st.spawnHi*=1.3;}
   const move=st.speed*dt;st.dist+=move;tubeMat.map.offset.y-=move/300*30;if(flatW.visible){roadTex.offset.y-=move/10;grassTex.offset.y-=move/10;}
   if(st.grounded)st.lastGround=st.t;
   const buffered=st.bufferT>=0&&st.t-st.bufferT<=BUFFER;
@@ -477,7 +522,7 @@ let simT=0;function step(dt){st.frames++;simT+=dt;
   if(st.grounded)st.fuel=Math.min(1,st.fuel+FUEL_REFILL*dt);
   document.getElementById('fuel').style.width=(st.fuel*100).toFixed(1)+'%';
   st.spawnIn-=dt;if(st.realm==='sunlit')st.spawnIn=99;if(st.spawnIn<=0&&portals.some(p=>!p.exit&&p.ay<SPAWN_AY()+20))st.spawnIn=0.2;if(st.spawnIn<=0&&gaps.some(g=>g.near-g.L<SPAWN_AY()+st.speed*0.8))st.spawnIn=0.2;if(st.spawnIn<=0&&st.rails){railRow();st.spawnIn=st.spawnLo+Math.random()*(st.spawnHi-st.spawnLo);}if(st.spawnIn<=0){const th=spawn();if(st.flat&&st.difficulty>0.2&&Math.random()<0.5)spawn();else if(!st.flat&&st.difficulty>0.35&&Math.random()<0.45*st.difficulty)spawn(th+(Math.PI/3+Math.random()*Math.PI*0.8)*(Math.random()<.5?-1:1));st.spawnIn=st.spawnLo+Math.random()*(st.spawnHi-st.spawnLo);}
-  updateMeteors(dt,move);if(st.over)return;updateGaps(dt,move);if(st.over)return;updateRealm(dt,move);if(st.over)return;
+  updateCombat(dt,move);if(st.over)return;updateMeteors(dt,move);if(st.over)return;updateGaps(dt,move);if(st.over)return;updateRealm(dt,move);if(st.over)return;
   for(let i=obstacles.length-1;i>=0;i--){const o=obstacles[i];o.ay+=move+(o.v||0)*dt;placeObs(o);
    if(o.ay>20){scene.remove(o.mesh);obstacles.splice(i,1);continue;}
    if(collide(o)){gameOver(o.kind==='car'?'car':undefined);break;}}
@@ -504,6 +549,6 @@ renderer.setAnimationLoop(()=>{const dt=Math.min(clock.getDelta(),0.05);lastFram
  const n=Math.min(40,Math.max(1,Math.ceil(st.speed*dt/0.8)));for(let i=0;i<n;i++)step(dt/n);
  scene.fog.far=Math.max(150,st.speed*1.8+20);scene.fog.near=scene.fog.far*0.27;renderer.render(scene,camera);});
 window.__game={get vicModel(){return {loaded:vicModel.loaded,failed:vicModel.failed,clip:vicModel.clip,err:vicModel.err}},get state(){return {...st,obstacles:obstacles.map(o=>({theta:o.theta,ay:o.ay,lx:o.lx,kind:o.kind})),meteors:meteors.map(m=>({kind:m.kind,theta:m.theta,ay:m.ay,t:m.t,lead:LEAD,ringVisible:m.ring.visible,rockScale:m.rock.scale.x,rockPos:m.rock.position.toArray()})),gaps:gaps.map(g=>({kind:g.kind,near:g.near,L:g.L,Lo:g.Lo,Li:g.Li,Lf:g.Lf,Le:g.Le})),portals:portals.map(p=>({zone:p.zone,ay:p.ay,theta:p.theta,exit:!!p.exit,gc:p.gc})),craters:craters.map(c=>({theta:c.theta,ay:c.ay,life:c.life})),mode,vicPos:vic.getWorldPosition(new THREE.Vector3()).toArray()}},
- spawnAt(theta,ay){spawn(theta,ay);},
- get simT(){return simT},reset,jump:requestJump,spawnMeteor:(k,th,ay)=>spawnMeteor(k,th,ay),setTime:t=>{st.t=t;},consts:{R,BASE,CAP,V0,G,HOP_H,COYOTE,BUFFER,TURN_RATE,FUEL_TIME},placeholder:false,spawnGap:(n,k)=>{const g=spawnGap(n,k);return {kind:g.kind,near:g.near,L:g.L,Lo:g.Lo,Li:g.Li}},setGapIn:x=>{st.gapIn=x},setSpeedT:t=>{st.t=t},gapPhys:{AIR_MAX,HOP_AIR,GAP_AIR},clearAll(){for(const o of obstacles)scene.remove(o.mesh);obstacles.length=0;clearMeteors();st.spawnIn=99;st.meteorIn=99;st.gapIn=999;st.portalIn=999;},spawnPortal:(z,ay,th)=>{const p=spawnPortal(z,ay,th);return {zone:p.zone,ay:p.ay,theta:p.theta}},enterRealm:z=>enterRealm(z),startStrobe:()=>startStrobe(),strobeHold:v=>{st.strobeHold=v;if(v)setStrobeDark(v==='dark');},setDist:d=>{st.dist=d},setStrobeIn:x=>{st.strobeIn=x},consts2:{FLAT_X,RA,RAIL_BOOST,LANES},tubeVisible:()=>tube.visible,bg:()=>scene.background.isColor?scene.background.getHex():'tex',pickRealm:d=>{const o=st.dist;st.dist=d;const r=pickRealm();st.dist=o;return r},setPortalIn:x=>{st.portalIn=x},skipPad(){st.padDone=true;pad.visible=false;},screenX(){const v=vic.getWorldPosition(new THREE.Vector3()).project(camera);return (v.x+1)/2*innerWidth;},project(a){const v=new THREE.Vector3(...a).project(camera);return [(v.x+1)/2*innerWidth,(1-v.y)/2*innerHeight,v.z];}};
+ spawnAt(theta,ay){spawn(theta,ay);},spawnDrone:(dx,ay)=>spawnDrone(dx,ay),get combat(){return {drones:drones.map(d=>({dx:latDiff(d),ay:d.ay,h:d.h})),bullets:bullets.length,kills:combat.kills,shots:combat.shots,shotsL:combat.shotsL,shotsR:combat.shotsR,bonus:combat.bonus}},fire:s=>fire(s),setDroneIn:x=>{combat.droneIn=x},neonColors:()=>({obs:redObsMat.color.getHexString(),rings:deco.neon.userData.ms.map(m=>m.color.getHexString())}),
+ get simT(){return simT},reset,jump:requestJump,spawnMeteor:(k,th,ay)=>spawnMeteor(k,th,ay),setTime:t=>{st.t=t;},consts:{R,BASE,CAP,V0,G,HOP_H,COYOTE,BUFFER,TURN_RATE,FUEL_TIME},placeholder:false,spawnGap:(n,k)=>{const g=spawnGap(n,k);return {kind:g.kind,near:g.near,L:g.L,Lo:g.Lo,Li:g.Li}},setGapIn:x=>{st.gapIn=x},setSpeedT:t=>{st.t=t},gapPhys:{AIR_MAX,HOP_AIR,GAP_AIR},clearAll(){for(const o of obstacles)scene.remove(o.mesh);obstacles.length=0;clearDrones();combat.droneIn=999;clearMeteors();st.spawnIn=99;st.meteorIn=99;st.gapIn=999;st.portalIn=999;},spawnPortal:(z,ay,th)=>{const p=spawnPortal(z,ay,th);return {zone:p.zone,ay:p.ay,theta:p.theta}},enterRealm:z=>enterRealm(z),startStrobe:()=>startStrobe(),strobeHold:v=>{st.strobeHold=v;if(v)setStrobeDark(v==='dark');},setDist:d=>{st.dist=d},setStrobeIn:x=>{st.strobeIn=x},consts2:{FLAT_X,RA,RAIL_BOOST,LANES},tubeVisible:()=>tube.visible,bg:()=>scene.background.isColor?scene.background.getHex():'tex',pickRealm:d=>{const o=st.dist;st.dist=d;const r=pickRealm();st.dist=o;return r},setPortalIn:x=>{st.portalIn=x},skipPad(){st.padDone=true;pad.visible=false;},screenX(){const v=vic.getWorldPosition(new THREE.Vector3()).project(camera);return (v.x+1)/2*innerWidth;},project(a){const v=new THREE.Vector3(...a).project(camera);return [(v.x+1)/2*innerWidth,(1-v.y)/2*innerHeight,v.z];}};
 </script></body></html>
